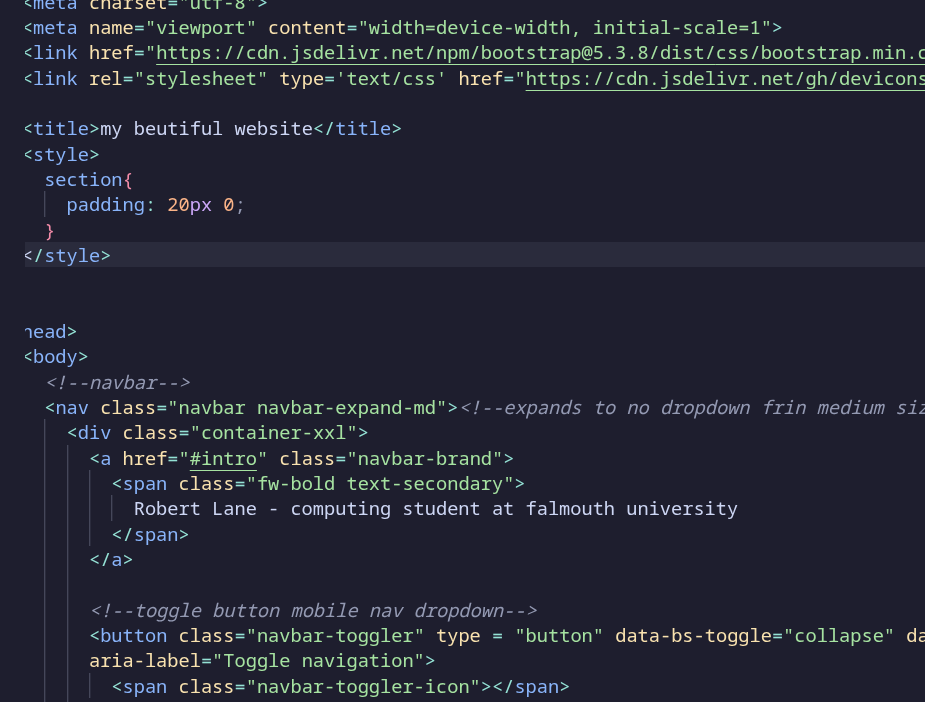
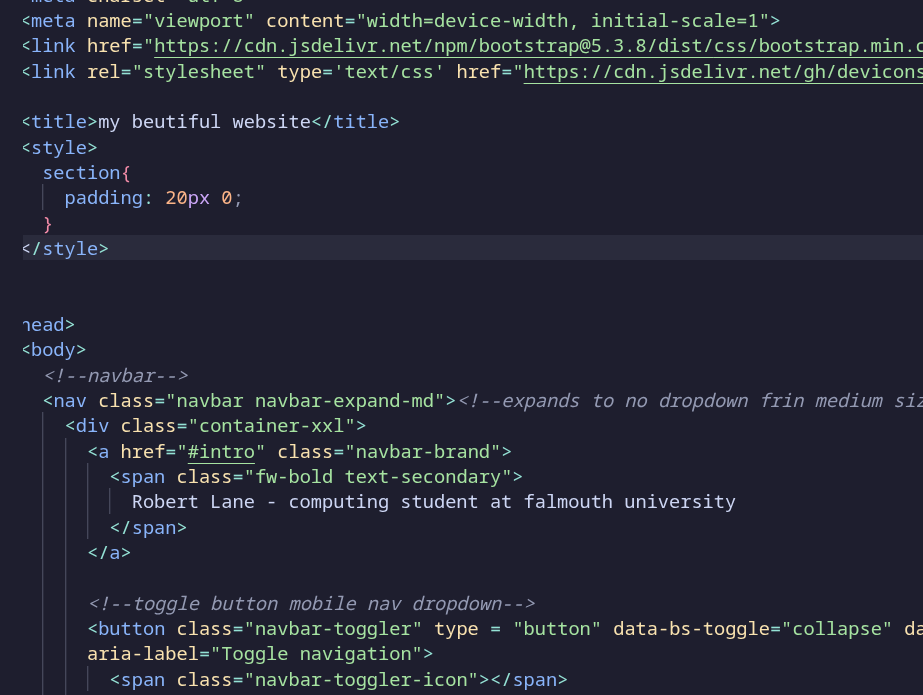
boop

diff --git a/index.html b/index.html
@@ -21,6 +21,7 @@
 
   </head>
     <body>
+      <!--large page show email linkding maybe insta?-->
       <!--navbar-->
       <nav class="navbar navbar-expand-md"><!--expands to no dropdown frin medium size screens-->
         <div class="container-xxl">
@@ -49,7 +50,7 @@
                 <a class="nav-link" href="#pastProjects">Projects</a>
               </li>
               <li class="nav-item">
-                <a class="nav-link disabled" aria-disabled="true">Disabled</a>
+                <a class="nav-link disabled" aria-disabled="true">contact</a>
               </li>
             </ul>
           <!--navbar links-->
@@ -185,7 +186,7 @@
             <div class="py-4 row row-cols-1 row-cols-md-2 row-cols-lg-3 justify-content-center g-3S"> 
               
               <div class="col"> 
-                <div class="card shadow-sm rounded"> 
+                <div class="card shadow-sm rounded h-100"> 
                   <img src="assets/example_HTML.png" class="img-fluid rounded border-5 border-white" alt="html code of this site">
                   <div class="card-title">Portfolio Website</div>
                   <div class="card-body"> 
@@ -194,16 +195,16 @@
                     </p>
 
                     <div class="d-flex justify-content-between align-items-center">
-                      <div class="btn-group"> <button type="button" class="btn btn-sm btn-outline-secondary">View</button> 
-                      </div> 
+                      <!--<div class="btn-group"> <button type="button" class="btn btn-sm btn-outline-secondary">View</button> -->
+                      
                     </div>
                   </div>
                 </div>
               </div>
 <!--dissertation-->
               <div class="col"> 
-                <div class="card shadow-sm rounded"> 
-                  <img src="assets/example_HTML.png" class="img-fluid rounded border-5 border-white" alt="html code of this site">
+                <div class="card shadow-sm rounded h-100"> 
+                  <img src="assets/OpenStreetMapScreenShot.png" class="img-fluid rounded border-5 border-white" alt="Screenshot from open street map">
                   <div class="card-title"> Y3 dissertation</div>
                   <div class="card-body"> 
                     <p class="card-text"> My dissertation is going to explore creating a c++ library to generate specific meshes, these then can be used by
@@ -211,23 +212,23 @@
                     </p>
 
                     <div class="d-flex justify-content-between align-items-center">
-                      <div class="btn-group"> <button type="button" class="btn btn-sm btn-outline-secondary">View</button> 
-                      </div> 
+                      <!--<div class="btn-group"> <button type="button" class="btn btn-sm btn-outline-secondary">View</button> -->
+                       
                     </div>
                   </div>
                 </div>
               </div>
 <!--group game-->
               <div class="col"> 
-                <div class="card shadow-sm rounded"> 
+                <div class="card shadow-sm rounded h-100"> 
                   <img src="assets/example_HTML.png" class="img-fluid rounded border-5 border-white" alt="html code of this site">
                   <div class="card-title">Y3 group project</div>
                   <div class="card-body"> 
                     <p class="card-text">Our year 3 group project in unreal of which I am taking the role of Ai programmer and general backend/engine stuffs</p>
 
                     <div class="d-flex justify-content-between align-items-center">
-                      <div class="btn-group"> <button type="button" class="btn btn-sm btn-outline-secondary">View</button> 
-                      </div> 
+                      <!--<div class="btn-group"> <button type="button" class="btn btn-sm btn-outline-secondary">View</button> -->
+                      
                     </div>
                   </div>
                 </div>
@@ -281,7 +282,6 @@
                       My role was to create the system around how the lasers worked as well as how the players interacted with the world. I took the role of scrum master
                       within this project as well as helping the other 2 programmers less experienced in unity. 
                     </p>
-                    <p class="card-text"><small class="text-muted">Last updated 3 mins ago</small></p>
                   </div>
                 </div>
                 <div class="col-md-6">

diff --git a/BlogPages/nvimSetup.html b/BlogPages/nvimSetup.html
@@ -1,0 +1,1 @@
+<!--seems people with one do blogs on it :D-->
